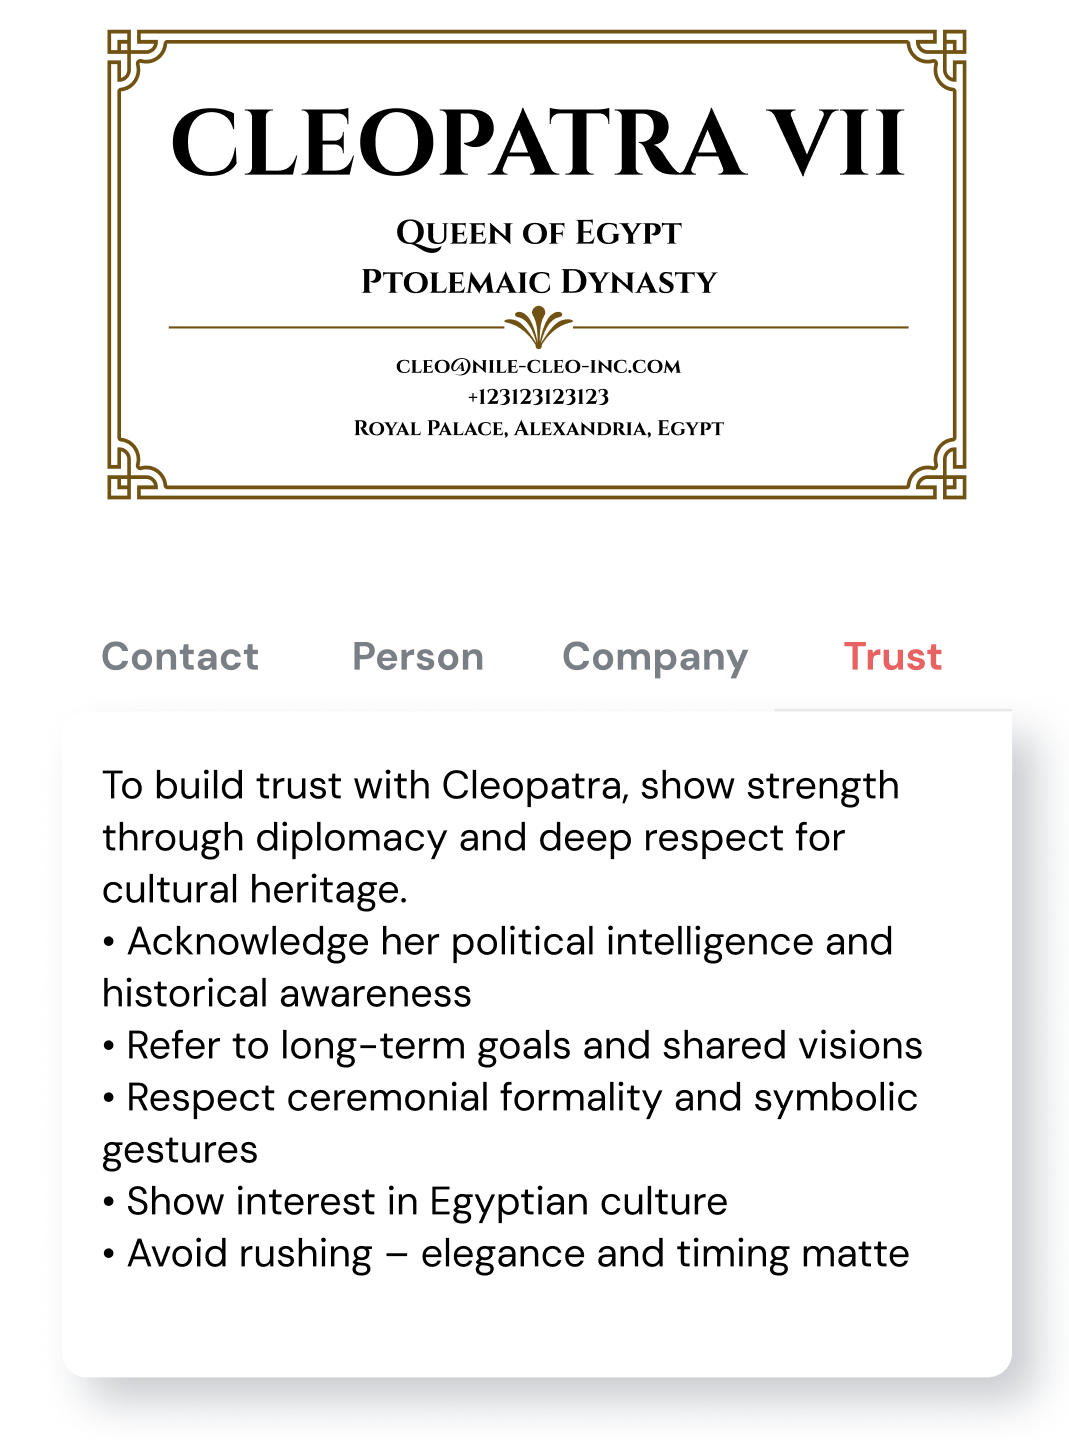
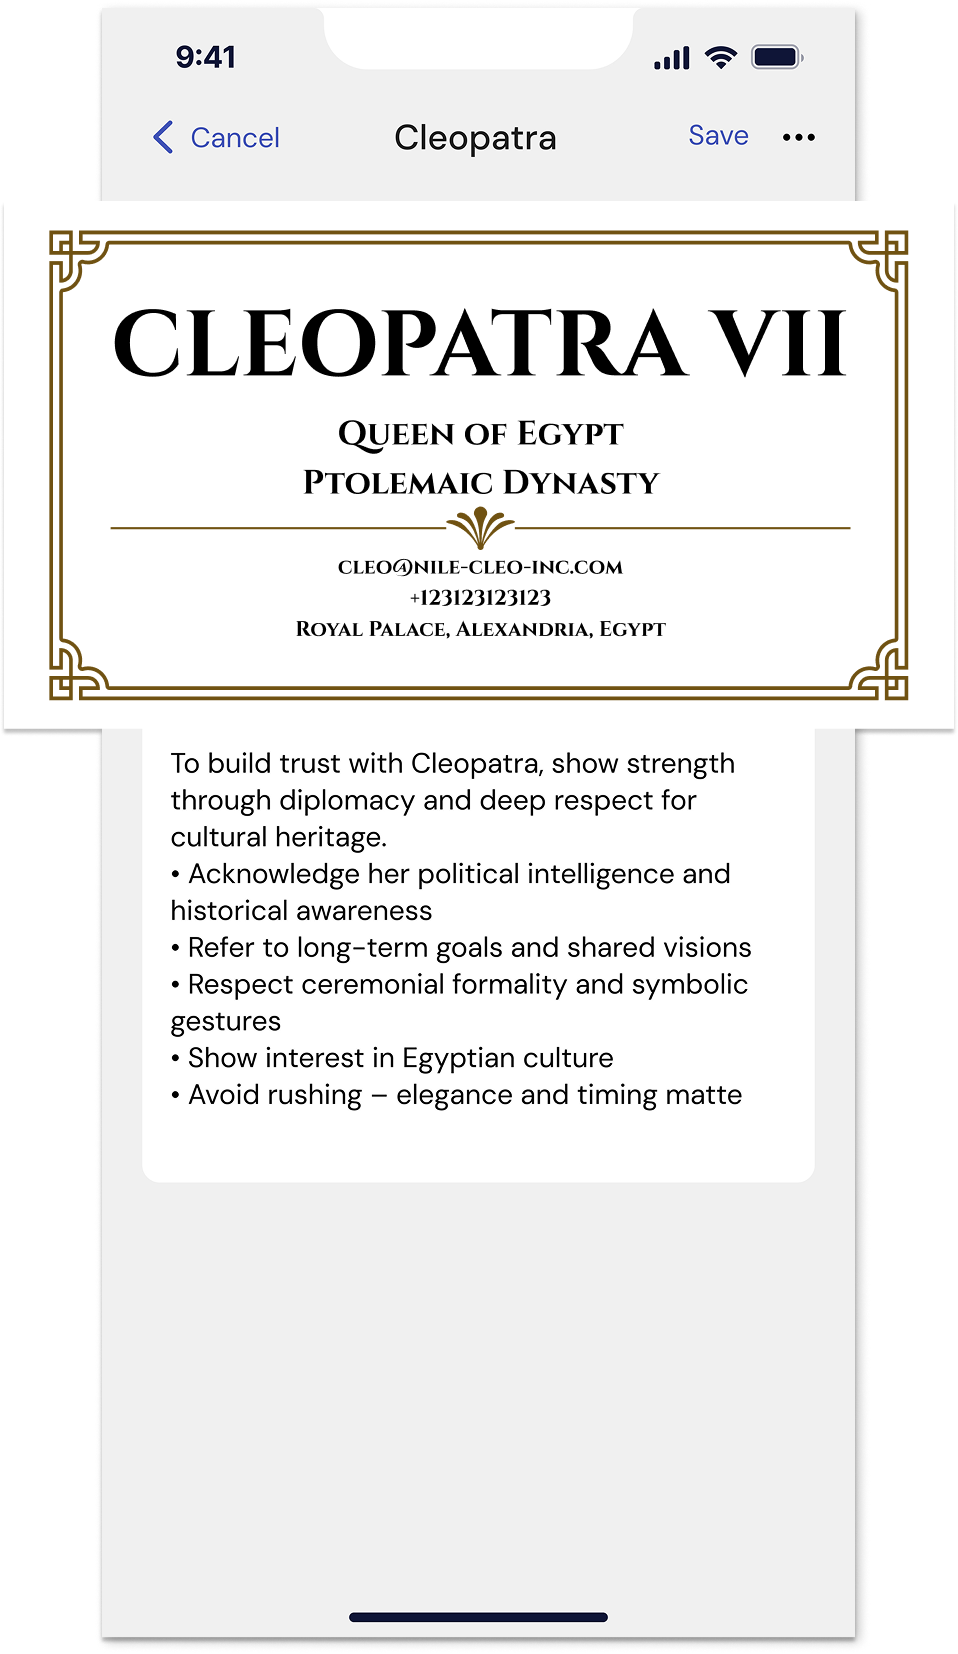
v2 pravki

Changed region(s): [[0.0303, 0.0, 0.9687, 0.9931]]

diff --git a/ZORELI/index.html b/ZORELI/index.html
@@ -154,12 +154,12 @@
 
 <body>
 
-    <div class="versionDesktop">V1 комп (макет)</div>
-    <div class="versionTablet1200">V1 план1200</div>
-    <div class="versionTablet1000">V1 план1000</div>
-    <div class="versionTablet800">V1 моб800 (макет)</div>
-    <div class="versionMobile480">V1 моб480</div>
-    <div class="version375">V1 моб375</div>
+    <div class="versionDesktop">V2 комп (макет)</div>
+    <div class="versionTablet1200">V2 план1200</div>
+    <div class="versionTablet1000">V2 план1000</div>
+    <div class="versionTablet800">V2 моб800 (макет)</div>
+    <div class="versionMobile480">V2 моб480</div>
+    <div class="version375">V2 моб375</div>
 
     <header>
         <div class="container">
@@ -410,7 +410,7 @@
 
                         </a>
 
-                        <a href="https://apps.apple.com/app/business-card-scanner-zoreli/id6745472491?l=en-GB"
+                        <a href="#howItWorks"
                             target="_blank">
                             See how it works
                         </a>
@@ -1578,7 +1578,45 @@
                 <p id="year">© 2025 Zoreli</p>
             </div>
 
-            <img src="img/footer-center.png" alt="">
+            <div class="header-logo footer-center">
+                <svg width="48" height="36" viewBox="0 0 48 36" fill="none" xmlns="http://www.w3.org/2000/svg">
+                    <path
+                        d="M0 0V13.3797C1.1526 13.3797 2.08599 12.4521 2.08599 11.3067V2.073H11.3775C12.5301 2.073 13.4635 1.14542 13.4635 0H0Z"
+                        fill="#1E1E1E" />
+                    <path
+                        d="M47.9072 0V13.3797C46.7546 13.3797 45.8212 12.4521 45.8212 11.3067V2.073H36.5297C35.3771 2.073 34.4437 1.14542 34.4437 0H47.9072Z"
+                        fill="#1E1E1E" />
+                    <path
+                        d="M0 36V22.6204C1.1526 22.6204 2.08599 23.5479 2.08599 24.6934V33.927H11.3775C12.5301 33.927 13.4635 34.8546 13.4635 36H0Z"
+                        fill="#1E1E1E" />
+                    <path
+                        d="M47.9072 36V22.6204C46.7546 22.6204 45.8212 23.5479 45.8212 24.6934V33.927H36.5297C35.3771 33.927 34.4437 34.8546 34.4437 36H47.9072Z"
+                        fill="#1E1E1E" />
+                    <path
+                        d="M39.8602 8.03204C39.5278 7.70879 39.0753 7.505 38.5732 7.505H9.33395C8.8319 7.505 8.37935 7.70879 8.047 8.03204C7.71466 8.36232 7.51666 8.81205 7.51666 9.31098V26.6329C7.51666 27.1318 7.72173 27.5815 8.047 27.9118C8.37227 28.2421 8.8319 28.4388 9.33395 28.4388H38.5803C39.0824 28.4388 39.5349 28.235 39.8673 27.9118C40.1925 27.5815 40.3976 27.1318 40.3976 26.6329V9.31098C40.3976 8.81205 40.1925 8.36232 39.8673 8.03204H39.8602ZM15.7546 23.1615C12.8695 23.1615 10.529 20.8355 10.529 17.9684C10.529 15.1013 12.8695 12.7754 15.7546 12.7754C18.6396 12.7754 20.9802 15.1013 20.9802 17.9684C20.9802 20.8355 18.6396 23.1615 15.7546 23.1615ZM37.4277 20.9479H32.0819C30.9293 20.9479 29.9959 20.0203 29.9959 18.8749H37.4277V20.9479ZM37.4277 17.0619H26.0361C24.8835 17.0619 23.9501 16.1343 23.9501 14.9889H37.4277V17.0619Z"
+                        fill="#1E1E1E" />
+                    <path
+                        d="M16.6526 18.2776C17.3597 17.9403 17.8547 17.2235 17.8547 16.3943C17.8547 15.2419 16.9142 14.3073 15.7546 14.3073C14.5949 14.3073 13.6544 15.2419 13.6544 16.3943C13.6544 17.2235 14.1494 17.9403 14.8565 18.2776C13.7393 18.5306 12.7988 19.2473 12.2614 20.2241C13.0039 21.3625 14.2908 22.1144 15.7546 22.1144C17.2183 22.1144 18.5053 21.3625 19.2477 20.2241C18.7103 19.2544 17.7699 18.5376 16.6526 18.2776Z"
+                        fill="#1E1E1E" />
+                </svg>
+
+                <svg width="97" height="22" viewBox="0 0 97 22" fill="none" xmlns="http://www.w3.org/2000/svg">
+                    <path
+                        d="M17.209 4.04656L5.78903 17.8268V17.9533H17.3575V21.2841H0.825073V17.9251L12.146 4.17305V4.04656H1.32005V0.715698H17.2019V4.04656H17.209Z"
+                        fill="#1E1E1E" />
+                    <path
+                        d="M34.0454 1.20765C35.9051 2.03685 36.9587 3.51958 37.3618 5.92285C37.5173 6.85044 37.581 8.05208 37.581 10.7927C37.581 15.7257 37.3971 17.0819 36.5274 18.6209C35.7849 19.9139 34.4202 20.8133 32.5534 21.1788C31.719 21.3615 30.0714 21.4598 28.0561 21.4598C24.9872 21.4598 23.4316 21.2139 22.1588 20.5323C20.5112 19.6398 19.6768 18.3117 19.302 16.0279C19.1465 15.0722 19.1182 14.0814 19.1182 11.5235C19.1182 6.218 19.3374 4.70716 20.2991 3.19633C21.0769 1.99469 22.4416 1.13035 24.1458 0.793049C24.9519 0.610343 26.656 0.511963 28.5228 0.511963C31.4715 0.511963 32.8362 0.694669 34.0454 1.19359V1.20765ZM23.1558 11.8467C23.1558 15.4516 23.3114 16.3792 24.0538 17.2436C24.6407 17.9252 25.5741 18.0728 28.742 18.0728C31.9099 18.0728 32.617 17.7355 33.1474 16.2527C33.5221 15.2338 33.5504 14.7138 33.5504 10.8559C33.5504 7.61639 33.5504 7.52504 33.3949 6.56935C33.211 5.36771 32.716 4.59473 31.9382 4.25743C31.2523 3.98337 30.4815 3.92012 28.1551 3.92012C25.6449 3.92012 24.8034 4.07472 24.1528 4.72122C23.4669 5.36771 23.1912 6.44989 23.1629 8.48073V11.8397L23.1558 11.8467Z"
+                        fill="#1E1E1E" />
+                    <path
+                        d="M40.5226 0.715698H50.698C55.6902 0.715698 57.4015 2.25464 57.4015 6.85038C57.4015 10.9542 56.6873 12.0645 53.682 12.6478V12.8024C56.0367 12.9289 57.2176 14.3132 57.1893 16.8078V21.2771H53.187V17.5808C53.2507 15.3321 52.289 14.3764 50.0828 14.4327H44.4966V21.2771H40.5226V0.715698ZM50.0474 11.0737C51.292 11.0737 52.091 10.891 52.5577 10.4553C53.2083 9.92827 53.3638 9.31691 53.3638 7.56013C53.3638 4.65792 52.8688 4.1098 50.3232 4.1098H44.4895V11.0807H50.0404L50.0474 11.0737Z"
+                        fill="#1E1E1E" />
+                    <path
+                        d="M64.2535 9.31691H73.8985V12.2121H64.2535V18.0095H74.5208V21.2771H60.2795V0.715698H74.4289V3.98332H64.2535V9.31691Z"
+                        fill="#1E1E1E" />
+                    <path d="M81.4011 17.8268H91.0461V21.2771H77.4271V0.715698H81.4011V17.8268Z" fill="#1E1E1E" />
+                    <path d="M97 21.2841H93.026V0.715698H97V21.2841Z" fill="#1E1E1E" />
+                </svg>
+            </div>
 
             <div class="footer-right">
                 <div>

diff --git a/ZORELI/CSS/media800.css b/ZORELI/CSS/media800.css
@@ -137,9 +137,7 @@
     .header-logo {
         gap: 8px;
     }
-    .header-logo svg:first-child {
-        width: 34px;
-    }
+    
     .header-logo svg:last-child {
         width: 89px;
     }
@@ -385,16 +383,16 @@
         transform: translateX(-50%);
     }
     img[src*="howItWorks2Mobile"] {
-        width: calc(226px * 0.8);
+        width: calc(226px * 1);
         height: calc(498px * 0.8);
         background: #f0f0f0;
+        top: -3%;
         box-shadow: 4px 4px 12px 0px #46495240;
     }
     img[src*="howItWorks3Mobile"] {
-        width: calc(284px * 0.8);
-        height: calc(498px * 0.8);
-        background: #f0f0f0;
-        box-shadow: 4px 4px 12px 0px #46495240;
+        width: calc(284px * 1);
+        height: calc(498px * 1);
+        top: -24%;
     }
 
     .howItWorks-item {
@@ -837,9 +835,16 @@
     footer .svg-text {
         align-items: center;
     }
-    img[src*="footer-center"], footer>.container>a {
+    .footer-center {
         order: 1;
+    }
+    .footer-center svg:first-child {
+        width: 60.22px;
         height: 46px;
+    }
+    .footer-center svg:last-child {
+        width: 120.89px;
+        height: 26.77px;
     }
     .footer-right {
         flex-direction: column;

diff --git a/ZORELI/script.js b/ZORELI/script.js
@@ -19,6 +19,7 @@ document.addEventListener('DOMContentLoaded', function() {
             content.style.maxHeight = '0';
             content.style.opacity = '0';
             arrow.style.transform = 'rotate(0deg)';
+            block.classList.remove('open'); // Убираем класс
         });
     }
     
@@ -35,6 +36,7 @@ document.addEventListener('DOMContentLoaded', function() {
                 content.style.maxHeight = '0';
                 content.style.opacity = '0';
                 arrow.style.transform = 'rotate(0deg)';
+                block.classList.remove('open'); // Убираем класс
             } else {
                 // Сначала закрываем все блоки, потом открываем текущий
                 closeAllBlocks();
@@ -44,6 +46,7 @@ document.addEventListener('DOMContentLoaded', function() {
                 content.style.maxHeight = content.scrollHeight + 'px';
                 content.style.opacity = '1';
                 arrow.style.transform = 'rotate(180deg)';
+                block.classList.add('open'); // Добавляем класс
             }
         });
     });

diff --git a/ZORELI/CSS/media480.css b/ZORELI/CSS/media480.css
@@ -50,9 +50,12 @@
     }
     .howItWorksImgMobile {
         width: 345px;
+        height: 207px;
     }
     .oneCard-text {
-        width: 345px;
+        width: 365px;
+        padding-left: 10px;
+        padding-right: 10px;
     }
     .oneCard-text a {
         padding: 16px 0;
@@ -105,10 +108,10 @@
     }
 
     .compliance-grid {
-        max-width: 345px;
+        max-width: none;
     }
     .compliance h3 {
-        max-width: 345px;
+        max-width: none;
     }
 
 
@@ -119,18 +122,18 @@
         max-width: 345px;
     }
     .carousel-oneCard {
-        width: 345px;
-    }
-
-
-    .carousel-oneCard {
-        width: 345px;
+        width: 100%;
     }
 
     .carousel-reviews {
         display: block;
         margin: -89px 0 -60px;
-        width: 335px;
+        width: 100%;
+    }
+
+    .oneCard {
+        padding-left: 0 !important;
+        padding-right: 0 !important;
     }
 }
 
@@ -145,7 +148,7 @@
         width: 320px;
     }
     .oneCard-text {
-        width: 290px;
+        width: 310px;
     }
     .faq-text {
         max-width: 320px;

diff --git a/ZORELI/CSS/style.css b/ZORELI/CSS/style.css
@@ -692,6 +692,10 @@ button:focus {
     transition: max-height 0.3s ease, opacity 0.3s ease;
 }
 
+.drop-down-blocks > div.open {
+    border: 1px solid #CACACA;
+}
+
 
 .tariffs {
     padding: 111px 0;
@@ -759,11 +763,11 @@ button:focus {
 }
 .planPlus-minus p:before {
     content: url('../img/check-mark.svg');
-    margin-top: -2px;
+    margin-top: -1px;
 }
 .planPlus-minus p.cross-free:before {
     content: url('../img/check-cross.svg');
-    margin-top: 0;
+    margin-top: 1px;
 }
 
 .subscribeNow {
@@ -1300,6 +1304,15 @@ footer .footer-left .turnBusiness-links a:last-child {
     opacity: 0.8;
     margin: 0;
     line-height: 1.6;
+}
+
+.footer-center svg:first-child {
+    width: 67.75px;
+    height: 51.23px;
+}
+.footer-center svg:last-child {
+    width: 136.01px;
+    height: 29.81px;
 }
 
 /* Responsive Design for Contact Modal */
